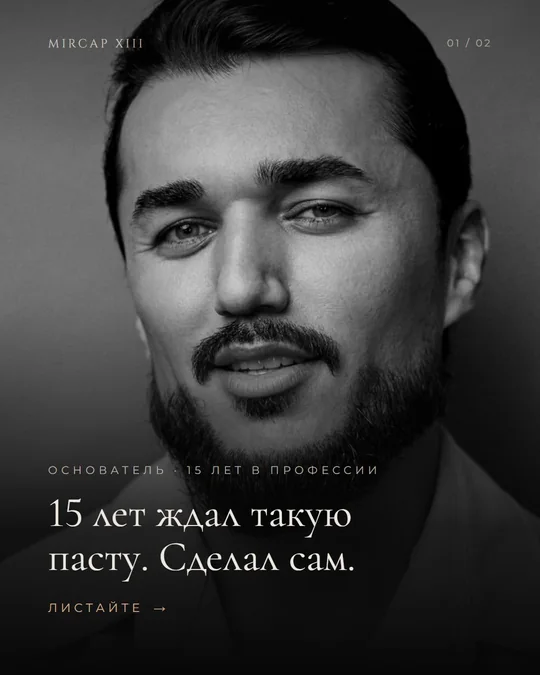
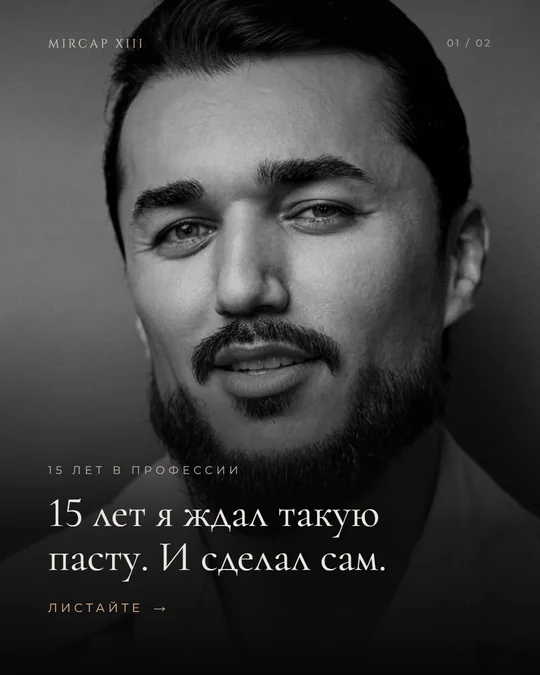
mircap: подписи и слайды от первого лица, предзаказ во всех шапках

Changed region(s): [[0.2963, 0.7467, 0.7111, 0.8711], [0.0889, 0.6844, 0.4444, 0.7156], [0.5037, 0.6844, 0.7111, 0.7156]]

diff --git a/mircap-insta/index.html b/mircap-insta/index.html
@@ -101,7 +101,7 @@ table.sc{width:100%;border-collapse:collapse;font-size:14px}.sc td{border-top:1p
 </div></div>
 
 <script>
-var P=[{"n": 1, "slug": "знакомство", "rubric": "1 · Продукт", "fmt": "Карусель, 3 слайда", "frame": "Банка MIRCAP XIII в сцене со шлемом, затем текст бренда на фоне крышки и текстуры пасты.", "cap": "Новый взгляд на мужской уход и укладку волос.\n\nMIRCAP XIII: бренд, созданный на пересечении профессионального мастерства, мужского стиля и внимания к деталям.\n\nНаш первый продукт: STYLING PASTE. STRONG HOLD. MATTE FINISH.\n\nМы начинаем с одного продукта, но с большим видением. Добро пожаловать в MIRCAP XIII.", "tags": "#матоваяпаста #пастадляукладки #мужскаяукладка", "src": "Текст Миира от 21.11, дословно", "slides": ["img/p01-1.webp", "img/p01-2.webp", "img/p01-3.webp"], "thumb": "img/p01-t.webp", "vert": false, "tagsFull": "#mircap #mircapxiii #матоваяпаста #пастадляукладки #мужскаяукладка"}, {"n": 2, "slug": "герой-костюм", "rubric": "5 · Мужской стиль", "fmt": "Фото", "frame": "Герой бренда в костюме-тройке у окна библиотеки, матовая укладка (ИИ-кадр). Этот же мужчина в постах 10 и 11.", "cap": "Классический костюм и укладка, которая держится до вечера.\n\nЭтот образ Миир видит каждый день: люди, с которыми он работает, ходят в классике. Всегда ухоженные, всегда с аккуратной укладкой.\n\nМатовая паста MIRCAP XIII подходит и для текстуры, и для классики. Без блеска и без мокрого эффекта.", "tags": "#мужскойстиль #классическийкостюм #мужскаяукладка", "src": "Вопросы 19 и 30", "slides": ["img/p02-1.webp"], "thumb": "img/p02-t.webp", "vert": false, "tagsFull": "#mircap #mircapxiii #мужскойстиль #классическийкостюм #мужскаяукладка"}, {"n": 3, "slug": "шлем-характер", "rubric": "2 · Философия", "fmt": "Фото", "frame": "Бронзовый спартанский шлем на чёрном (сток Pexels, автор Tugay Aydın, лицензия Pexels). Перекликается со спартанцем на крышке. Одна строка: «Твёрдый характер.»", "cap": "Твёрдый характер.\n\nСпартанец на крышке MIRCAP XIII не для красоты. Три года и 38 попыток: были моменты, когда ничего не получалось, и Миир продолжал, пока не довёл пасту до идеала.\n\n«Начал, доведи до конца».", "tags": "#мужскойстиль #характер #мужскаякосметика", "src": "Вопросы 6, 8, 36", "slides": ["img/p03-1.webp"], "thumb": "img/p03-t.webp", "vert": false, "tagsFull": "#mircap #mircapxiii #мужскойстиль #характер #мужскаякосметика"}, {"n": 4, "slug": "текстура", "rubric": "4 · Текстура", "fmt": "Фото", "frame": "Макросъёмка матовой пасты в открытой банке, след от пальца (ИИ-кадр).", "cap": "Ноль блеска.\n\nМатовый эффект без блеска. Волосы не склеиваются, не тяжелеют и не выглядят грязными.\n\nНанесли, задали направление, и форма держится, пока Вы её не смоете. Поправить укладку можно в любой момент дня: после зала, в дороге.", "tags": "#матоваяпаста #текстура #укладкаволос", "src": "Вопросы 2, 7, 55", "slides": ["img/p04-1.webp"], "thumb": "img/p04-t.webp", "vert": false, "tagsFull": "#mircap #mircapxiii #матоваяпаста #текстура #укладкаволос"}, {"n": 5, "slug": "создано-барбером", "rubric": "3 · Мастерство и эффект укладки", "fmt": "Фото", "frame": "Руки барбера в чёрных перчатках, золотая расчёска, кожаное барберское кресло (сток Pexels, автор miami302, лицензия Pexels). Одна строка: «Создано барбером.»", "cap": "Создано барбером.\n\nMIRCAP XIII сделал Миир: 15 лет в профессии, мастер барбершопа 13 by Timati. Каждый образец он проверял на клиентах, а мастера 13 by Timati помогали довести пасту до идеала.\n\nБарберу не нужно ничего объяснять клиенту. Он просто красиво уложит, и клиент сам всё поймёт.", "tags": "#барбер #13bytimati #мужскаяукладка", "src": "Вопросы 4, 17–20, 60", "slides": ["img/p05-1.webp"], "thumb": "img/p05-t.webp", "vert": false, "tagsFull": "#mircap #mircapxiii #барбер #13bytimati #мужскаяукладка"}, {"n": 6, "slug": "reels-38-попыток", "rubric": "1 · Продукт", "fmt": "Reels, 12,5 секунды (готов)", "frame": "Банка поворачивается и показывает все стороны этикетки. Сверху сменяются «3 года.», «38 попыток.», «Одна банка.», в конце MIRCAP XIII и старт продаж. Видео готово, музыку ставим в Instagram.", "cap": "Три года. Тридцать восемь попыток. Одна банка.\n\nMIRCAP XIII: матовая паста для укладки, которую барбер 13 by Timati делал для себя и своих клиентов, пока не довёл до идеала.\n\nСтарт продаж в декабре.", "tags": "#матоваяпаста #пастадляукладки #мужскаякосметика", "src": "Вопросы 4, 12, 27, 67", "slides": ["img/p06-1.webp"], "thumb": "img/p06-t.webp", "vert": true, "video": "img/p06.mp4", "tagsFull": "#mircap #mircapxiii #матоваяпаста #пастадляукладки #мужскаякосметика"}, {"n": 7, "slug": "история", "rubric": "2 · Философия", "fmt": "Карусель, 7 слайдов", "frame": "Обложка: пустое барберское кресло в тёмном зале (сток Unsplash, Joshua Lawrence), «Три года он никому не говорил, что делает пасту». Пять карточек истории с фото, финальная цитата на зелёном.", "cap": "Три года. Тридцать восемь попыток. Одна банка.\n\nМиир никому не рассказывал о пасте, пока не добился эффекта, которого хотел сам. Каждую неделю новый образец, каждый образец семь-восемь дней на клиентах, каждая мелочь исправлена.\n\nЛистайте: как появилась паста MIRCAP XIII.", "tags": "#историябренда #барбер #мужскаяукладка", "src": "Вопросы 1, 4, 5, 7, 12, 15, 19, 33", "slides": ["img/p07-1.webp", "img/p07-2.webp", "img/p07-3.webp", "img/p07-4.webp", "img/p07-5.webp", "img/p07-6.webp", "img/p07-7.webp"], "thumb": "img/p07-t.webp", "vert": false, "tagsFull": "#mircap #mircapxiii #историябренда #барбер #мужскаяукладка"}, {"n": 8, "slug": "reels-укладка-за-минуту", "rubric": "3 · Мастерство и эффект укладки", "fmt": "Reels, 25–35 секунд (снимает Миир)", "frame": "Обложка готова (руки растирают пасту). Видео снимает Миир по сценарию ниже: он сам обещал показать, как укладываться.", "cap": "Укладка за минуту. Показывает Миир, основатель MIRCAP XIII.\n\n1. Вымытым волосам дайте подсохнуть 10–15 минут, фен не нужен.\n2. Немного пасты разотрите в ладонях, пока она не станет почти незаметной.\n3. Пройдите по всем волосам.\n4. Чуть приподнимите чёлку и задайте текстуру.\n\nСохраните, чтобы не потерять.", "tags": "#какуложитьволосы #мужскаяукладка #матоваяпаста", "src": "Вопросы 32 и 48", "script": [["0–2 с", "Миир у зеркала после душа, волосы мокрые.", "Титр: «Укладка за минуту»"], ["2–5 с", "Волосы подсохли, без фена.", "Голос: «Даю отсохнуть минут 10–15, пока завтракаю»"], ["5–9 с", "Крупно: открывает банку, берёт немного пасты.", "Титр: «Немного пасты»"], ["9–13 с", "Растирает в ладонях 2–3 раза, паста почти не видна.", "Голос: «Хорошенько растираю, чтобы на руках было почти незаметно»"], ["13–20 с", "Проходит по всем волосам.", "Голос: «По всем волосам, чтобы везде попало»"], ["20–26 с", "Приподнимает чёлку, придаёт текстуру и лёгкую небрежность.", "Титр: «Текстура»"], ["26–32 с", "Готовая укладка, поворот головы, банка на столе.", "Титр: «MIRCAP XIII · Strong hold · Matte finish»"]], "slides": ["img/p08-1.webp"], "thumb": "img/p08-t.webp", "vert": true, "tagsFull": "#mircap #mircapxiii #какуложитьволосы #мужскаяукладка #матоваяпаста"}, {"n": 9, "slug": "основатель", "rubric": "2 · Философия", "fmt": "Карусель, 2 слайда", "frame": "Чёрно-белый портрет Миира с зацепкой «15 лет ждал такую пасту. Сделал сам.», затем его цитата на фото у панорамного окна.", "cap": "Миир. Барбер, 15 лет в профессии, мастер барбершопа 13 by Timati.\n\nВсе эти годы он ждал, что кто-то создаст пасту, которая держит весь день, легко смывается и приятно пахнет. Не дождался и сделал сам.\n\n«Бренд никогда не будет менять своё качество на деньги».", "tags": "#барбер #13bytimati #основатель", "src": "Вопрос 2, распаковка", "slides": ["img/p09-1.webp", "img/p09-2.webp"], "thumb": "img/p09-t.webp", "vert": false, "tagsFull": "#mircap #mircapxiii #барбер #13bytimati #основатель"}, {"n": 10, "slug": "аромат-и-детали", "rubric": "1 · Продукт / 6 · Детали", "fmt": "Карусель, 3 слайда", "frame": "Обложка: руки в кожаных перчатках на руле (сток Unsplash, Omar Al-Ghosson) с «Итальянская кожа». Затем натюрморт из кожи, затем крышка банки: тёмно-зелёный и холодный бордовый.", "cap": "Детали.\n\nТёмно-зелёный и холодный бордовый. Эти цвета Миир выбрал для банки, потому что они выглядят серьёзно.\n\nАромат: итальянская кожа. Миир отказался от ярких популярных ароматов и летом объездил шесть мастерских, пока не услышал свой. Он звучит мягко, раскрывается, когда Вы укладываете волосы, и не перебивает Ваш парфюм.", "tags": "#мужскаякосметика #итальянскаякожа #детали", "src": "Вопросы 21, 33, 34", "slides": ["img/p10-1.webp", "img/p10-2.webp", "img/p10-3.webp"], "thumb": "img/p10-t.webp", "vert": false, "tagsFull": "#mircap #mircapxiii #мужскаякосметика #итальянскаякожа #детали"}, {"n": 11, "slug": "паста-воск-гель", "rubric": "7 · Перевод интереса в покупку", "fmt": "Карусель, 4 слайда", "frame": "Обложка: чёрно-белый крупный план, расчёска и бритва по волосам (сток Pexels, S. Minh), «Почему укладка разваливается к обеду». Затем три карточки: гель, воск, матовая паста.", "cap": "Паста, воск или гель: в чём разница?\n\nГель сильно склеивает волосы и даёт мокрый эффект. Воск держит слабо: через пару часов укладка разваливается. Матовая паста даёт естественную текстуру и держит весь день.\n\nСохраните и покажите другу, который до сих пор укладывается гелем.", "tags": "#матоваяпаста #укладкаволос #барбершоп", "src": "Вопрос 45", "slides": ["img/p11-1.webp", "img/p11-2.webp", "img/p11-3.webp", "img/p11-4.webp"], "thumb": "img/p11-t.webp", "vert": false, "tagsFull": "#mircap #mircapxiii #матоваяпаста #укладкаволос #барбершоп"}, {"n": 12, "slug": "предзаказ", "rubric": "7 · Перевод интереса в покупку", "fmt": "Карусель, 2 слайда", "frame": "Банка крупно с текстом «Предзаказ открыт», затем цена, объём и срок.", "cap": "Предзаказ MIRCAP XIII открыт.\n\nСтарт продаж: декабрь 2026. Цена банки 5 000 ₽, объём 95 ml. Одной банки хватает в среднем на 4–5 месяцев.\n\nОставьте заявку по ссылке в шапке профиля, и мы напишем Вам первыми, когда партия будет готова. Для покупателей первой партии будет особое предложение.", "tags": "#матоваяпаста #предзаказ #мужскаякосметика", "src": "Вопросы 41, 46, 51, 67", "slides": ["img/p12-1.webp", "img/p12-2.webp"], "thumb": "img/p12-t.webp", "vert": false, "tagsFull": "#mircap #mircapxiii #матоваяпаста #предзаказ #мужскаякосметика"}];
+var P=[{"n": 1, "slug": "знакомство", "rubric": "1 · Продукт", "fmt": "Карусель, 3 слайда", "frame": "Банка MIRCAP XIII в сцене со шлемом, затем текст бренда на фоне крышки и текстуры пасты.", "cap": "Новый взгляд на мужской уход и укладку волос.\n\nMIRCAP XIII: бренд, созданный на пересечении профессионального мастерства, мужского стиля и внимания к деталям.\n\nНаш первый продукт: STYLING PASTE. STRONG HOLD. MATTE FINISH.\n\nМы начинаем с одного продукта, но с большим видением. Добро пожаловать в MIRCAP XIII.", "tags": "#матоваяпаста #пастадляукладки #мужскаяукладка", "src": "Текст Миира от 21.11, дословно", "slides": ["img/p01-1.webp", "img/p01-2.webp", "img/p01-3.webp"], "thumb": "img/p01-t.webp", "vert": false, "tagsFull": "#mircap #mircapxiii #матоваяпаста #пастадляукладки #мужскаяукладка"}, {"n": 2, "slug": "герой-костюм", "rubric": "5 · Мужской стиль", "fmt": "Фото", "frame": "Герой бренда в костюме-тройке у окна библиотеки, матовая укладка (ИИ-кадр). Этот же мужчина в постах 10 и 11.", "cap": "Классический костюм и укладка, которая держится до вечера.\n\nЭтот образ я вижу каждый день: люди, с которыми я работаю, ходят в классике. Всегда ухоженные, всегда с аккуратной укладкой.\n\nМатовая паста MIRCAP XIII подходит и для текстуры, и для классики. Без блеска и без мокрого эффекта.", "tags": "#мужскойстиль #классическийкостюм #мужскаяукладка", "src": "Вопросы 19 и 30", "slides": ["img/p02-1.webp"], "thumb": "img/p02-t.webp", "vert": false, "tagsFull": "#mircap #mircapxiii #мужскойстиль #классическийкостюм #мужскаяукладка"}, {"n": 3, "slug": "шлем-характер", "rubric": "2 · Философия", "fmt": "Фото", "frame": "Бронзовый спартанский шлем на чёрном (сток Pexels, автор Tugay Aydın, лицензия Pexels). Перекликается со спартанцем на крышке. Одна строка: «Твёрдый характер.»", "cap": "Твёрдый характер.\n\nСпартанец на крышке MIRCAP XIII не для красоты. Три года и 38 попыток: были моменты, когда ничего не получалось, и я продолжал, пока не довёл пасту до идеала.\n\n«Начал, доведи до конца».", "tags": "#мужскойстиль #характер #мужскаякосметика", "src": "Вопросы 6, 8, 36", "slides": ["img/p03-1.webp"], "thumb": "img/p03-t.webp", "vert": false, "tagsFull": "#mircap #mircapxiii #мужскойстиль #характер #мужскаякосметика"}, {"n": 4, "slug": "текстура", "rubric": "4 · Текстура", "fmt": "Фото", "frame": "Макросъёмка матовой пасты в открытой банке, след от пальца (ИИ-кадр).", "cap": "Ноль блеска.\n\nМатовый эффект без блеска. Волосы не склеиваются, не тяжелеют и не выглядят грязными.\n\nНанесли, задали направление, и форма держится, пока Вы её не смоете. Поправить укладку можно в любой момент дня: после зала, в дороге.", "tags": "#матоваяпаста #текстура #укладкаволос", "src": "Вопросы 2, 7, 55", "slides": ["img/p04-1.webp"], "thumb": "img/p04-t.webp", "vert": false, "tagsFull": "#mircap #mircapxiii #матоваяпаста #текстура #укладкаволос"}, {"n": 5, "slug": "создано-барбером", "rubric": "3 · Мастерство и эффект укладки", "fmt": "Фото", "frame": "Руки барбера в чёрных перчатках, золотая расчёска, кожаное барберское кресло (сток Pexels, автор miami302, лицензия Pexels). Одна строка: «Создано барбером.»", "cap": "Создано барбером.\n\nMIRCAP XIII я сделал сам: 15 лет в профессии, мастер барбершопа 13 by Timati. Каждый образец я проверял на клиентах, а мастера 13 by Timati помогали довести пасту до идеала.\n\nБарберу не нужно ничего объяснять клиенту. Он просто красиво уложит, и клиент сам всё поймёт.", "tags": "#барбер #13bytimati #мужскаяукладка", "src": "Вопросы 4, 17–20, 60", "slides": ["img/p05-1.webp"], "thumb": "img/p05-t.webp", "vert": false, "tagsFull": "#mircap #mircapxiii #барбер #13bytimati #мужскаяукладка"}, {"n": 6, "slug": "reels-38-попыток", "rubric": "1 · Продукт", "fmt": "Reels, 12,5 секунды (готов)", "frame": "Банка поворачивается и показывает все стороны этикетки. Сверху сменяются «3 года.», «38 попыток.», «Одна банка.», в конце MIRCAP XIII и старт продаж. Видео готово, музыку ставим в Instagram.", "cap": "Три года. Тридцать восемь попыток. Одна банка.\n\nMIRCAP XIII: матовая паста для укладки, которую барбер 13 by Timati делал для себя и своих клиентов, пока не довёл до идеала.\n\nСтарт продаж в декабре.", "tags": "#матоваяпаста #пастадляукладки #мужскаякосметика", "src": "Вопросы 4, 12, 27, 67", "slides": ["img/p06-1.webp"], "thumb": "img/p06-t.webp", "vert": true, "video": "img/p06.mp4", "tagsFull": "#mircap #mircapxiii #матоваяпаста #пастадляукладки #мужскаякосметика"}, {"n": 7, "slug": "история", "rubric": "2 · Философия", "fmt": "Карусель, 7 слайдов", "frame": "Обложка: пустое барберское кресло в тёмном зале (сток Unsplash, Joshua Lawrence), «Три года он никому не говорил, что делает пасту». Пять карточек истории с фото, финальная цитата на зелёном.", "cap": "Три года. Тридцать восемь попыток. Одна банка.\n\nЯ никому не рассказывал о пасте, пока не добился эффекта, которого хотел сам. Каждую неделю новый образец, каждый образец семь-восемь дней на клиентах, каждая мелочь исправлена.\n\nЛистайте: как появилась паста MIRCAP XIII.", "tags": "#историябренда #барбер #мужскаяукладка", "src": "Вопросы 1, 4, 5, 7, 12, 15, 19, 33", "slides": ["img/p07-1.webp", "img/p07-2.webp", "img/p07-3.webp", "img/p07-4.webp", "img/p07-5.webp", "img/p07-6.webp", "img/p07-7.webp"], "thumb": "img/p07-t.webp", "vert": false, "tagsFull": "#mircap #mircapxiii #историябренда #барбер #мужскаяукладка"}, {"n": 8, "slug": "reels-укладка-за-минуту", "rubric": "3 · Мастерство и эффект укладки", "fmt": "Reels, 25–35 секунд (снимает Миир)", "frame": "Обложка готова (руки растирают пасту). Видео снимает Миир по сценарию ниже: он сам обещал показать, как укладываться.", "cap": "Укладка за минуту. Показываю, как укладываюсь сам.\n\n1. Вымытым волосам дайте подсохнуть 10–15 минут, фен не нужен.\n2. Немного пасты разотрите в ладонях, пока она не станет почти незаметной.\n3. Пройдите по всем волосам.\n4. Чуть приподнимите чёлку и задайте текстуру.\n\nСохраните, чтобы не потерять.", "tags": "#какуложитьволосы #мужскаяукладка #матоваяпаста", "src": "Вопросы 32 и 48", "script": [["0–2 с", "Я у зеркала после душа, волосы мокрые.", "Титр: «Укладка за минуту»"], ["2–5 с", "Волосы подсохли, без фена.", "Голос: «Даю отсохнуть минут 10–15, пока завтракаю»"], ["5–9 с", "Крупно: открывает банку, берёт немного пасты.", "Титр: «Немного пасты»"], ["9–13 с", "Растирает в ладонях 2–3 раза, паста почти не видна.", "Голос: «Хорошенько растираю, чтобы на руках было почти незаметно»"], ["13–20 с", "Проходит по всем волосам.", "Голос: «По всем волосам, чтобы везде попало»"], ["20–26 с", "Приподнимает чёлку, придаёт текстуру и лёгкую небрежность.", "Титр: «Текстура»"], ["26–32 с", "Готовая укладка, поворот головы, банка на столе.", "Титр: «MIRCAP XIII · Strong hold · Matte finish»"]], "slides": ["img/p08-1.webp"], "thumb": "img/p08-t.webp", "vert": true, "tagsFull": "#mircap #mircapxiii #какуложитьволосы #мужскаяукладка #матоваяпаста"}, {"n": 9, "slug": "основатель", "rubric": "2 · Философия", "fmt": "Карусель, 2 слайда", "frame": "Чёрно-белый портрет Миира с зацепкой «15 лет ждал такую пасту. Сделал сам.», затем его цитата на фото у панорамного окна.", "cap": "Я Миир. Барбер, 15 лет в профессии, мастер барбершопа 13 by Timati.\n\nВсе эти годы я ждал, что кто-то создаст пасту, которая держит весь день, легко смывается и приятно пахнет. Не дождался и сделал сам.\n\n«Бренд никогда не будет менять своё качество на деньги».", "tags": "#барбер #13bytimati #основатель", "src": "Вопрос 2, распаковка", "slides": ["img/p09-1.webp", "img/p09-2.webp"], "thumb": "img/p09-t.webp", "vert": false, "tagsFull": "#mircap #mircapxiii #барбер #13bytimati #основатель"}, {"n": 10, "slug": "аромат-и-детали", "rubric": "1 · Продукт / 6 · Детали", "fmt": "Карусель, 3 слайда", "frame": "Обложка: руки в кожаных перчатках на руле (сток Unsplash, Omar Al-Ghosson) с «Итальянская кожа». Затем натюрморт из кожи, затем крышка банки: тёмно-зелёный и холодный бордовый.", "cap": "Детали.\n\nТёмно-зелёный и холодный бордовый. Эти цвета я выбрал для банки, потому что они выглядят серьёзно.\n\nАромат: итальянская кожа. Я отказался от ярких популярных ароматов и летом объездил шесть мастерских, пока не услышал свой. Он звучит мягко, раскрывается, когда Вы укладываете волосы, и не перебивает Ваш парфюм.", "tags": "#мужскаякосметика #итальянскаякожа #детали", "src": "Вопросы 21, 33, 34", "slides": ["img/p10-1.webp", "img/p10-2.webp", "img/p10-3.webp"], "thumb": "img/p10-t.webp", "vert": false, "tagsFull": "#mircap #mircapxiii #мужскаякосметика #итальянскаякожа #детали"}, {"n": 11, "slug": "паста-воск-гель", "rubric": "7 · Перевод интереса в покупку", "fmt": "Карусель, 4 слайда", "frame": "Обложка: чёрно-белый крупный план, расчёска и бритва по волосам (сток Pexels, S. Minh), «Почему укладка разваливается к обеду». Затем три карточки: гель, воск, матовая паста.", "cap": "Паста, воск или гель: в чём разница?\n\nГель сильно склеивает волосы и даёт мокрый эффект. Воск держит слабо: через пару часов укладка разваливается. Матовая паста даёт естественную текстуру и держит весь день.\n\nСохраните и покажите другу, который до сих пор укладывается гелем.", "tags": "#матоваяпаста #укладкаволос #барбершоп", "src": "Вопрос 45", "slides": ["img/p11-1.webp", "img/p11-2.webp", "img/p11-3.webp", "img/p11-4.webp"], "thumb": "img/p11-t.webp", "vert": false, "tagsFull": "#mircap #mircapxiii #матоваяпаста #укладкаволос #барбершоп"}, {"n": 12, "slug": "предзаказ", "rubric": "7 · Перевод интереса в покупку", "fmt": "Карусель, 2 слайда", "frame": "Банка крупно с текстом «Предзаказ открыт», затем цена, объём и срок.", "cap": "Предзаказ MIRCAP XIII открыт.\n\nСтарт продаж: декабрь 2026. Цена банки 5 000 ₽, объём 95 ml. Одной банки хватает в среднем на 4–5 месяцев.\n\nОставьте заявку по ссылке в шапке профиля, и мы напишем Вам первыми, когда партия будет готова. Для покупателей первой партии будет особое предложение.", "tags": "#матоваяпаста #предзаказ #мужскаякосметика", "src": "Вопросы 41, 46, 51, 67", "slides": ["img/p12-1.webp", "img/p12-2.webp"], "thumb": "img/p12-t.webp", "vert": false, "tagsFull": "#mircap #mircapxiii #матоваяпаста #предзаказ #мужскаякосметика"}];
 function esc(s){return s.replace(/[&<>"]/g,function(c){return {'&':'&amp;','<':'&lt;','>':'&gt;','"':'&quot;'}[c]})}
 var m=document.getElementById('m'),cur=1;
 function open_(n){

diff --git a/mircap-lenta/index.html b/mircap-lenta/index.html
@@ -40,4 +40,4 @@ body::before{content:"";position:fixed;inset:0;pointer-events:none;background:ra
 .lb{position:fixed;inset:0;background:rgba(0,0,0,.94);display:none;align-items:center;justify-content:center;z-index:9;padding:16px}
 .lb.on{display:flex}
 .lb img{max-height:92vh;max-width:100%;border-radius:8px}
-</style></head><body><section class="hero"><div class="wrap"><div class="k">Оформление Instagram</div><div class="brand" style="margin-top:22px">MIRCAP XIII</div><div class="sub">MEN&#39;S COSMETICS</div><h1 class="h">Как будет выглядеть лента бренда</h1><div class="rule"></div><p class="p">Пять вариантов оформления профиля. Каждая сетка показана так, как её увидит человек в телефоне. Нажмите на любой пост, чтобы открыть его целиком.</p><div class="how"><span>5 вариантов ленты</span><span>5 вариантов шапки</span><span>12 первых постов</span></div></div></section><section class="var line"><div class="wrap vgrid"><div class="txt"><div class="gn">Вариант 01</div><h2 class="h2">Зелёная</h2><div class="rule"></div><p class="p">Фото и карточка с текстом чередуются через один. Карточки бутылочно‑зелёные, как банка. Все фото в одной тонировке, поэтому лента выглядит как одна съёмка.</p></div><div class="phone"><div class="pbar"><span class="brand">MIRCAP XIII</span><span>01 / 05</span></div><div class="grid"><button class="t" data-src="img/v1_01.webp" aria-label="Открыть пост"><img src="img/v1_01.webp" alt="" loading="lazy"></button><button class="t" data-src="img/v1_02.webp" aria-label="Открыть пост"><img src="img/v1_02.webp" alt="" loading="lazy"></button><button class="t" data-src="img/v1_03.webp" aria-label="Открыть пост"><img src="img/v1_03.webp" alt="" loading="lazy"></button><button class="t" data-src="img/v1_04.webp" aria-label="Открыть пост"><img src="img/v1_04.webp" alt="" loading="lazy"></button><button class="t" data-src="img/v1_05.webp" aria-label="Открыть пост"><img src="img/v1_05.webp" alt="" loading="lazy"></button><button class="t" data-src="img/v1_06.webp" aria-label="Открыть пост"><img src="img/v1_06.webp" alt="" loading="lazy"></button><button class="t" data-src="img/v1_07.webp" aria-label="Открыть пост"><img src="img/v1_07.webp" alt="" loading="lazy"></button><button class="t" data-src="img/v1_08.webp" aria-label="Открыть пост"><img src="img/v1_08.webp" alt="" loading="lazy"></button><button class="t" data-src="img/v1_09.webp" aria-label="Открыть пост"><img src="img/v1_09.webp" alt="" loading="lazy"></button><button class="t" data-src="img/v1_10.webp" aria-label="Открыть пост"><img src="img/v1_10.webp" alt="" loading="lazy"></button><button class="t" data-src="img/v1_11.webp" aria-label="Открыть пост"><img src="img/v1_11.webp" alt="" loading="lazy"></button><button class="t" data-src="img/v1_12.webp" aria-label="Открыть пост"><img src="img/v1_12.webp" alt="" loading="lazy"></button></div></div></div></section><section class="var line even"><div class="wrap vgrid"><div class="txt"><div class="gn">Вариант 02</div><h2 class="h2">Чёрная</h2><div class="rule"></div><p class="p">Та же схема: фото и карточка через один. Карточки чёрные с бордовой линией, фото в своём родном цвете.</p></div><div class="phone"><div class="pbar"><span class="brand">MIRCAP XIII</span><span>02 / 05</span></div><div class="grid"><button class="t" data-src="img/v2_01.webp" aria-label="Открыть пост"><img src="img/v2_01.webp" alt="" loading="lazy"></button><button class="t" data-src="img/v2_02.webp" aria-label="Открыть пост"><img src="img/v2_02.webp" alt="" loading="lazy"></button><button class="t" data-src="img/v2_03.webp" aria-label="Открыть пост"><img src="img/v2_03.webp" alt="" loading="lazy"></button><button class="t" data-src="img/v2_04.webp" aria-label="Открыть пост"><img src="img/v2_04.webp" alt="" loading="lazy"></button><button class="t" data-src="img/v2_05.webp" aria-label="Открыть пост"><img src="img/v2_05.webp" alt="" loading="lazy"></button><button class="t" data-src="img/v2_06.webp" aria-label="Открыть пост"><img src="img/v2_06.webp" alt="" loading="lazy"></button><button class="t" data-src="img/v2_07.webp" aria-label="Открыть пост"><img src="img/v2_07.webp" alt="" loading="lazy"></button><button class="t" data-src="img/v2_08.webp" aria-label="Открыть пост"><img src="img/v2_08.webp" alt="" loading="lazy"></button><button class="t" data-src="img/v2_09.webp" aria-label="Открыть пост"><img src="img/v2_09.webp" alt="" loading="lazy"></button><button class="t" data-src="img/v2_10.webp" aria-label="Открыть пост"><img src="img/v2_10.webp" alt="" loading="lazy"></button><button class="t" data-src="img/v2_11.webp" aria-label="Открыть пост"><img src="img/v2_11.webp" alt="" loading="lazy"></button><button class="t" data-src="img/v2_12.webp" aria-label="Открыть пост"><img src="img/v2_12.webp" alt="" loading="lazy"></button></div></div></div></section><section class="var line"><div class="wrap vgrid"><div class="txt"><div class="gn">Вариант 03</div><h2 class="h2">Ряды</h2><div class="rule"></div><p class="p">Каждый ряд посвящён одной теме. Сверху вниз: стиль, мастерство барбера, характер, продукт. Посты выходят блоками по три.</p></div><div class="phone"><div class="pbar"><span class="brand">MIRCAP XIII</span><span>03 / 05</span></div><div class="grid"><button class="t" data-src="img/v3_01.webp" aria-label="Открыть пост"><img src="img/v3_01.webp" alt="" loading="lazy"></button><button class="t" data-src="img/v3_02.webp" aria-label="Открыть пост"><img src="img/v3_02.webp" alt="" loading="lazy"></button><button class="t" data-src="img/v3_03.webp" aria-label="Открыть пост"><img src="img/v3_03.webp" alt="" loading="lazy"></button><button class="t" data-src="img/v3_04.webp" aria-label="Открыть пост"><img src="img/v3_04.webp" alt="" loading="lazy"></button><button class="t" data-src="img/v3_05.webp" aria-label="Открыть пост"><img src="img/v3_05.webp" alt="" loading="lazy"></button><button class="t" data-src="img/v3_06.webp" aria-label="Открыть пост"><img src="img/v3_06.webp" alt="" loading="lazy"></button><button class="t" data-src="img/v3_07.webp" aria-label="Открыть пост"><img src="img/v3_07.webp" alt="" loading="lazy"></button><button class="t" data-src="img/v3_08.webp" aria-label="Открыть пост"><img src="img/v3_08.webp" alt="" loading="lazy"></button><button class="t" data-src="img/v3_09.webp" aria-label="Открыть пост"><img src="img/v3_09.webp" alt="" loading="lazy"></button><button class="t" data-src="img/v3_10.webp" aria-label="Открыть пост"><img src="img/v3_10.webp" alt="" loading="lazy"></button><button class="t" data-src="img/v3_11.webp" aria-label="Открыть пост"><img src="img/v3_11.webp" alt="" loading="lazy"></button><button class="t" data-src="img/v3_12.webp" aria-label="Открыть пост"><img src="img/v3_12.webp" alt="" loading="lazy"></button></div></div></div></section><section class="var line even"><div class="wrap vgrid"><div class="txt"><div class="gn">Вариант 04</div><h2 class="h2">Минимализм</h2><div class="rule"></div><p class="p">Только фото, без текста на картинках. Весь текст в подписях к постам. Самый тихий вариант.</p></div><div class="phone"><div class="pbar"><span class="brand">MIRCAP XIII</span><span>04 / 05</span></div><div class="grid"><button class="t" data-src="img/v4_01.webp" aria-label="Открыть пост"><img src="img/v4_01.webp" alt="" loading="lazy"></button><button class="t" data-src="img/v4_02.webp" aria-label="Открыть пост"><img src="img/v4_02.webp" alt="" loading="lazy"></button><button class="t" data-src="img/v4_03.webp" aria-label="Открыть пост"><img src="img/v4_03.webp" alt="" loading="lazy"></button><button class="t" data-src="img/v4_04.webp" aria-label="Открыть пост"><img src="img/v4_04.webp" alt="" loading="lazy"></button><button class="t" data-src="img/v4_05.webp" aria-label="Открыть пост"><img src="img/v4_05.webp" alt="" loading="lazy"></button><button class="t" data-src="img/v4_06.webp" aria-label="Открыть пост"><img src="img/v4_06.webp" alt="" loading="lazy"></button><button class="t" data-src="img/v4_07.webp" aria-label="Открыть пост"><img src="img/v4_07.webp" alt="" loading="lazy"></button><button class="t" data-src="img/v4_08.webp" aria-label="Открыть пост"><img src="img/v4_08.webp" alt="" loading="lazy"></button><button class="t" data-src="img/v4_09.webp" aria-label="Открыть пост"><img src="img/v4_09.webp" alt="" loading="lazy"></button><button class="t" data-src="img/v4_10.webp" aria-label="Открыть пост"><img src="img/v4_10.webp" alt="" loading="lazy"></button><button class="t" data-src="img/v4_11.webp" aria-label="Открыть пост"><img src="img/v4_11.webp" alt="" loading="lazy"></button><button class="t" data-src="img/v4_12.webp" aria-label="Открыть пост"><img src="img/v4_12.webp" alt="" loading="lazy"></button></div></div></div></section><section class="var line"><div class="wrap vgrid"><div class="txt"><div class="gn">Вариант 05</div><h2 class="h2">Текущая</h2><div class="rule"></div><p class="p">Первый вариант ленты: фото с заголовком на каждом посте.</p></div><div class="phone"><div class="pbar"><span class="brand">MIRCAP XIII</span><span>05 / 05</span></div><div class="grid"><button class="t" data-src="img/v5_01.webp" aria-label="Открыть пост"><img src="img/v5_01.webp" alt="" loading="lazy"></button><button class="t" data-src="img/v5_02.webp" aria-label="Открыть пост"><img src="img/v5_02.webp" alt="" loading="lazy"></button><button class="t" data-src="img/v5_03.webp" aria-label="Открыть пост"><img src="img/v5_03.webp" alt="" loading="lazy"></button><button class="t" data-src="img/v5_04.webp" aria-label="Открыть пост"><img src="img/v5_04.webp" alt="" loading="lazy"></button><button class="t" data-src="img/v5_05.webp" aria-label="Открыть пост"><img src="img/v5_05.webp" alt="" loading="lazy"></button><button class="t" data-src="img/v5_06.webp" aria-label="Открыть пост"><img src="img/v5_06.webp" alt="" loading="lazy"></button><button class="t" data-src="img/v5_07.webp" aria-label="Открыть пост"><img src="img/v5_07.webp" alt="" loading="lazy"></button><button class="t" data-src="img/v5_08.webp" aria-label="Открыть пост"><img src="img/v5_08.webp" alt="" loading="lazy"></button><button class="t" data-src="img/v5_09.webp" aria-label="Открыть пост"><img src="img/v5_09.webp" alt="" loading="lazy"></button><button class="t" data-src="img/v5_10.webp" aria-label="Открыть пост"><img src="img/v5_10.webp" alt="" loading="lazy"></button><button class="t" data-src="img/v5_11.webp" aria-label="Открыть пост"><img src="img/v5_11.webp" alt="" loading="lazy"></button><button class="t" data-src="img/v5_12.webp" aria-label="Открыть пост"><img src="img/v5_12.webp" alt="" loading="lazy"></button></div></div></div></section><section class="bios line"><div class="wrap"><div class="gn">Шапка профиля</div><h2 class="h2">Текст под названием бренда</h2><div class="bvs"><div class="bv"><div class="gn">Шапка 01</div><div class="bt">Strong hold · matte finish · easy to wash out<br>Как манеры джентльмена: безупречно на встрече, на приёме и в дороге.<br>Предзаказ ↓</div></div><div class="bv"><div class="gn">Шапка 02</div><div class="bt">Strong hold · matte finish · easy to wash out<br>Как хорошие манеры: держится весь день и не бросается в глаза.</div></div><div class="bv"><div class="gn">Шапка 03</div><div class="bt">STRONG HOLD · MATTE FINISH · EASY TO WASH OUT<br>Новый взгляд на мужской уход и укладку волос</div></div><div class="bv"><div class="gn">Шапка 04</div><div class="bt">Styling paste · strong hold · matte finish<br>Укладка, которая выдерживает переговоры, перелёты и вечерний приём.<br>Предзаказ ↓</div></div><div class="bv"><div class="gn">Шапка 05</div><div class="bt">Styling paste · strong hold · matte finish<br>Эффект барбершопа каждое утро. За минуту, своими руками.<br>Предзаказ ↓</div></div></div></div></section><div class="wrap"><div class="ask"><div class="gn">Ваш выбор</div><h2 class="h2">Какой вариант Вам ближе?</h2><div class="rule"></div><p class="p">Напишите номер варианта ленты и номер шапки. Можно соединить, например ленту 01 и шапку 03.</p></div></div><div class="lb" id="lb"><img alt=""></div><script>const lb=document.getElementById("lb"),li=lb.querySelector("img");document.querySelectorAll(".t").forEach(b=>b.onclick=()=>{li.src=b.dataset.src;lb.classList.add("on")});lb.onclick=()=>lb.classList.remove("on");</script></body></html>
+</style></head><body><section class="hero"><div class="wrap"><div class="k">Оформление Instagram</div><div class="brand" style="margin-top:22px">MIRCAP XIII</div><div class="sub">MEN&#39;S COSMETICS</div><h1 class="h">Как будет выглядеть лента бренда</h1><div class="rule"></div><p class="p">Пять вариантов оформления профиля. Каждая сетка показана так, как её увидит человек в телефоне. Нажмите на любой пост, чтобы открыть его целиком.</p><div class="how"><span>5 вариантов ленты</span><span>5 вариантов шапки</span><span>12 первых постов</span></div></div></section><section class="var line"><div class="wrap vgrid"><div class="txt"><div class="gn">Вариант 01</div><h2 class="h2">Зелёная</h2><div class="rule"></div><p class="p">Фото и карточка с текстом чередуются через один. Карточки бутылочно‑зелёные, как банка. Все фото в одной тонировке, поэтому лента выглядит как одна съёмка.</p></div><div class="phone"><div class="pbar"><span class="brand">MIRCAP XIII</span><span>01 / 05</span></div><div class="grid"><button class="t" data-src="img/v1_01.webp" aria-label="Открыть пост"><img src="img/v1_01.webp" alt="" loading="lazy"></button><button class="t" data-src="img/v1_02.webp" aria-label="Открыть пост"><img src="img/v1_02.webp" alt="" loading="lazy"></button><button class="t" data-src="img/v1_03.webp" aria-label="Открыть пост"><img src="img/v1_03.webp" alt="" loading="lazy"></button><button class="t" data-src="img/v1_04.webp" aria-label="Открыть пост"><img src="img/v1_04.webp" alt="" loading="lazy"></button><button class="t" data-src="img/v1_05.webp" aria-label="Открыть пост"><img src="img/v1_05.webp" alt="" loading="lazy"></button><button class="t" data-src="img/v1_06.webp" aria-label="Открыть пост"><img src="img/v1_06.webp" alt="" loading="lazy"></button><button class="t" data-src="img/v1_07.webp" aria-label="Открыть пост"><img src="img/v1_07.webp" alt="" loading="lazy"></button><button class="t" data-src="img/v1_08.webp" aria-label="Открыть пост"><img src="img/v1_08.webp" alt="" loading="lazy"></button><button class="t" data-src="img/v1_09.webp" aria-label="Открыть пост"><img src="img/v1_09.webp" alt="" loading="lazy"></button><button class="t" data-src="img/v1_10.webp" aria-label="Открыть пост"><img src="img/v1_10.webp" alt="" loading="lazy"></button><button class="t" data-src="img/v1_11.webp" aria-label="Открыть пост"><img src="img/v1_11.webp" alt="" loading="lazy"></button><button class="t" data-src="img/v1_12.webp" aria-label="Открыть пост"><img src="img/v1_12.webp" alt="" loading="lazy"></button></div></div></div></section><section class="var line even"><div class="wrap vgrid"><div class="txt"><div class="gn">Вариант 02</div><h2 class="h2">Чёрная</h2><div class="rule"></div><p class="p">Та же схема: фото и карточка через один. Карточки чёрные с бордовой линией, фото в своём родном цвете.</p></div><div class="phone"><div class="pbar"><span class="brand">MIRCAP XIII</span><span>02 / 05</span></div><div class="grid"><button class="t" data-src="img/v2_01.webp" aria-label="Открыть пост"><img src="img/v2_01.webp" alt="" loading="lazy"></button><button class="t" data-src="img/v2_02.webp" aria-label="Открыть пост"><img src="img/v2_02.webp" alt="" loading="lazy"></button><button class="t" data-src="img/v2_03.webp" aria-label="Открыть пост"><img src="img/v2_03.webp" alt="" loading="lazy"></button><button class="t" data-src="img/v2_04.webp" aria-label="Открыть пост"><img src="img/v2_04.webp" alt="" loading="lazy"></button><button class="t" data-src="img/v2_05.webp" aria-label="Открыть пост"><img src="img/v2_05.webp" alt="" loading="lazy"></button><button class="t" data-src="img/v2_06.webp" aria-label="Открыть пост"><img src="img/v2_06.webp" alt="" loading="lazy"></button><button class="t" data-src="img/v2_07.webp" aria-label="Открыть пост"><img src="img/v2_07.webp" alt="" loading="lazy"></button><button class="t" data-src="img/v2_08.webp" aria-label="Открыть пост"><img src="img/v2_08.webp" alt="" loading="lazy"></button><button class="t" data-src="img/v2_09.webp" aria-label="Открыть пост"><img src="img/v2_09.webp" alt="" loading="lazy"></button><button class="t" data-src="img/v2_10.webp" aria-label="Открыть пост"><img src="img/v2_10.webp" alt="" loading="lazy"></button><button class="t" data-src="img/v2_11.webp" aria-label="Открыть пост"><img src="img/v2_11.webp" alt="" loading="lazy"></button><button class="t" data-src="img/v2_12.webp" aria-label="Открыть пост"><img src="img/v2_12.webp" alt="" loading="lazy"></button></div></div></div></section><section class="var line"><div class="wrap vgrid"><div class="txt"><div class="gn">Вариант 03</div><h2 class="h2">Ряды</h2><div class="rule"></div><p class="p">Каждый ряд посвящён одной теме. Сверху вниз: стиль, мастерство барбера, характер, продукт. Посты выходят блоками по три.</p></div><div class="phone"><div class="pbar"><span class="brand">MIRCAP XIII</span><span>03 / 05</span></div><div class="grid"><button class="t" data-src="img/v3_01.webp" aria-label="Открыть пост"><img src="img/v3_01.webp" alt="" loading="lazy"></button><button class="t" data-src="img/v3_02.webp" aria-label="Открыть пост"><img src="img/v3_02.webp" alt="" loading="lazy"></button><button class="t" data-src="img/v3_03.webp" aria-label="Открыть пост"><img src="img/v3_03.webp" alt="" loading="lazy"></button><button class="t" data-src="img/v3_04.webp" aria-label="Открыть пост"><img src="img/v3_04.webp" alt="" loading="lazy"></button><button class="t" data-src="img/v3_05.webp" aria-label="Открыть пост"><img src="img/v3_05.webp" alt="" loading="lazy"></button><button class="t" data-src="img/v3_06.webp" aria-label="Открыть пост"><img src="img/v3_06.webp" alt="" loading="lazy"></button><button class="t" data-src="img/v3_07.webp" aria-label="Открыть пост"><img src="img/v3_07.webp" alt="" loading="lazy"></button><button class="t" data-src="img/v3_08.webp" aria-label="Открыть пост"><img src="img/v3_08.webp" alt="" loading="lazy"></button><button class="t" data-src="img/v3_09.webp" aria-label="Открыть пост"><img src="img/v3_09.webp" alt="" loading="lazy"></button><button class="t" data-src="img/v3_10.webp" aria-label="Открыть пост"><img src="img/v3_10.webp" alt="" loading="lazy"></button><button class="t" data-src="img/v3_11.webp" aria-label="Открыть пост"><img src="img/v3_11.webp" alt="" loading="lazy"></button><button class="t" data-src="img/v3_12.webp" aria-label="Открыть пост"><img src="img/v3_12.webp" alt="" loading="lazy"></button></div></div></div></section><section class="var line even"><div class="wrap vgrid"><div class="txt"><div class="gn">Вариант 04</div><h2 class="h2">Минимализм</h2><div class="rule"></div><p class="p">Только фото, без текста на картинках. Весь текст в подписях к постам. Самый тихий вариант.</p></div><div class="phone"><div class="pbar"><span class="brand">MIRCAP XIII</span><span>04 / 05</span></div><div class="grid"><button class="t" data-src="img/v4_01.webp" aria-label="Открыть пост"><img src="img/v4_01.webp" alt="" loading="lazy"></button><button class="t" data-src="img/v4_02.webp" aria-label="Открыть пост"><img src="img/v4_02.webp" alt="" loading="lazy"></button><button class="t" data-src="img/v4_03.webp" aria-label="Открыть пост"><img src="img/v4_03.webp" alt="" loading="lazy"></button><button class="t" data-src="img/v4_04.webp" aria-label="Открыть пост"><img src="img/v4_04.webp" alt="" loading="lazy"></button><button class="t" data-src="img/v4_05.webp" aria-label="Открыть пост"><img src="img/v4_05.webp" alt="" loading="lazy"></button><button class="t" data-src="img/v4_06.webp" aria-label="Открыть пост"><img src="img/v4_06.webp" alt="" loading="lazy"></button><button class="t" data-src="img/v4_07.webp" aria-label="Открыть пост"><img src="img/v4_07.webp" alt="" loading="lazy"></button><button class="t" data-src="img/v4_08.webp" aria-label="Открыть пост"><img src="img/v4_08.webp" alt="" loading="lazy"></button><button class="t" data-src="img/v4_09.webp" aria-label="Открыть пост"><img src="img/v4_09.webp" alt="" loading="lazy"></button><button class="t" data-src="img/v4_10.webp" aria-label="Открыть пост"><img src="img/v4_10.webp" alt="" loading="lazy"></button><button class="t" data-src="img/v4_11.webp" aria-label="Открыть пост"><img src="img/v4_11.webp" alt="" loading="lazy"></button><button class="t" data-src="img/v4_12.webp" aria-label="Открыть пост"><img src="img/v4_12.webp" alt="" loading="lazy"></button></div></div></div></section><section class="var line"><div class="wrap vgrid"><div class="txt"><div class="gn">Вариант 05</div><h2 class="h2">Текущая</h2><div class="rule"></div><p class="p">Первый вариант ленты: фото с заголовком на каждом посте.</p></div><div class="phone"><div class="pbar"><span class="brand">MIRCAP XIII</span><span>05 / 05</span></div><div class="grid"><button class="t" data-src="img/v5_01.webp" aria-label="Открыть пост"><img src="img/v5_01.webp" alt="" loading="lazy"></button><button class="t" data-src="img/v5_02.webp" aria-label="Открыть пост"><img src="img/v5_02.webp" alt="" loading="lazy"></button><button class="t" data-src="img/v5_03.webp" aria-label="Открыть пост"><img src="img/v5_03.webp" alt="" loading="lazy"></button><button class="t" data-src="img/v5_04.webp" aria-label="Открыть пост"><img src="img/v5_04.webp" alt="" loading="lazy"></button><button class="t" data-src="img/v5_05.webp" aria-label="Открыть пост"><img src="img/v5_05.webp" alt="" loading="lazy"></button><button class="t" data-src="img/v5_06.webp" aria-label="Открыть пост"><img src="img/v5_06.webp" alt="" loading="lazy"></button><button class="t" data-src="img/v5_07.webp" aria-label="Открыть пост"><img src="img/v5_07.webp" alt="" loading="lazy"></button><button class="t" data-src="img/v5_08.webp" aria-label="Открыть пост"><img src="img/v5_08.webp" alt="" loading="lazy"></button><button class="t" data-src="img/v5_09.webp" aria-label="Открыть пост"><img src="img/v5_09.webp" alt="" loading="lazy"></button><button class="t" data-src="img/v5_10.webp" aria-label="Открыть пост"><img src="img/v5_10.webp" alt="" loading="lazy"></button><button class="t" data-src="img/v5_11.webp" aria-label="Открыть пост"><img src="img/v5_11.webp" alt="" loading="lazy"></button><button class="t" data-src="img/v5_12.webp" aria-label="Открыть пост"><img src="img/v5_12.webp" alt="" loading="lazy"></button></div></div></div></section><section class="bios line"><div class="wrap"><div class="gn">Шапка профиля</div><h2 class="h2">Текст под названием бренда</h2><div class="bvs"><div class="bv"><div class="gn">Шапка 01</div><div class="bt">Strong hold · matte finish · easy to wash out<br>Как манеры джентльмена: безупречно на встрече, на приёме и в дороге.<br>Предзаказ ↓</div></div><div class="bv"><div class="gn">Шапка 02</div><div class="bt">Strong hold · matte finish · easy to wash out<br>Как хорошие манеры: держится весь день и не бросается в глаза.<br>Предзаказ ↓</div></div><div class="bv"><div class="gn">Шапка 03</div><div class="bt">STRONG HOLD · MATTE FINISH · EASY TO WASH OUT<br>Новый взгляд на мужской уход и укладку волос<br>Предзаказ ↓</div></div><div class="bv"><div class="gn">Шапка 04</div><div class="bt">Styling paste · strong hold · matte finish<br>Укладка, которая выдерживает переговоры, перелёты и вечерний приём.<br>Предзаказ ↓</div></div><div class="bv"><div class="gn">Шапка 05</div><div class="bt">Styling paste · strong hold · matte finish<br>Эффект барбершопа каждое утро. За минуту, своими руками.<br>Предзаказ ↓</div></div></div></div></section><div class="wrap"><div class="ask"><div class="gn">Ваш выбор</div><h2 class="h2">Какой вариант Вам ближе?</h2><div class="rule"></div><p class="p">Напишите номер варианта ленты и номер шапки. Можно соединить, например ленту 01 и шапку 03.</p></div></div><div class="lb" id="lb"><img alt=""></div><script>const lb=document.getElementById("lb"),li=lb.querySelector("img");document.querySelectorAll(".t").forEach(b=>b.onclick=()=>{li.src=b.dataset.src;lb.classList.add("on")});lb.onclick=()=>lb.classList.remove("on");</script></body></html>
